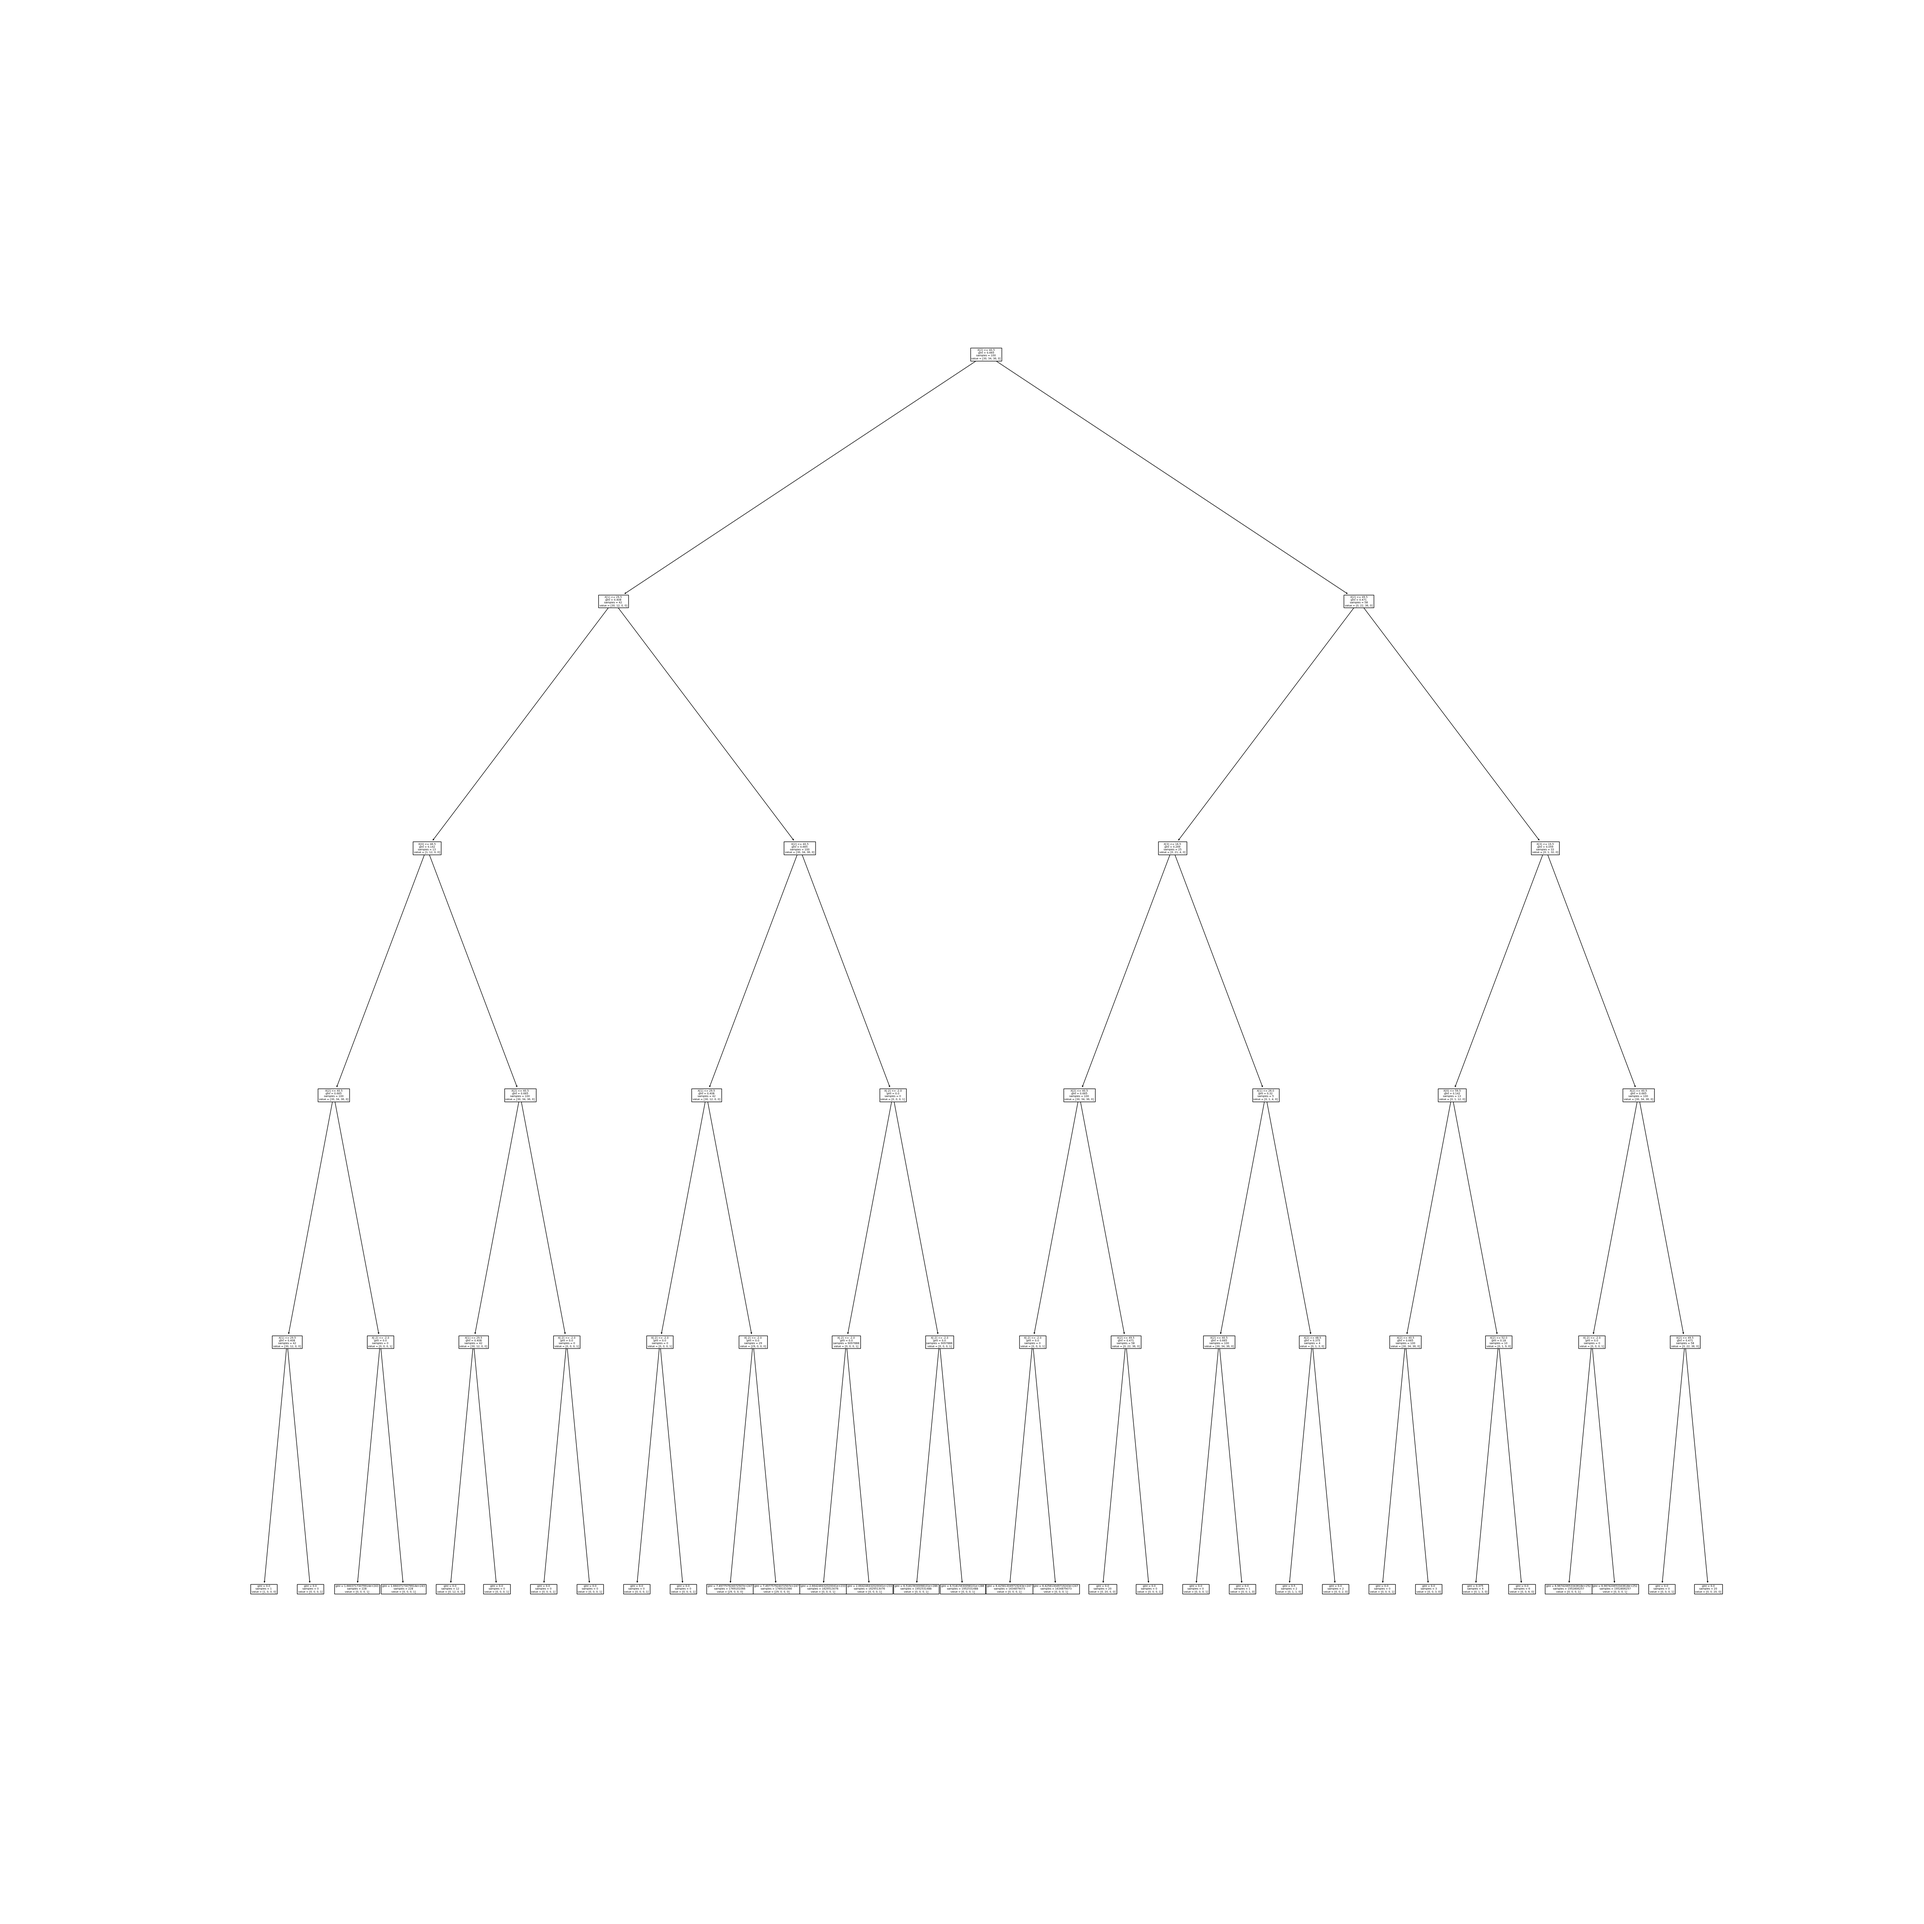
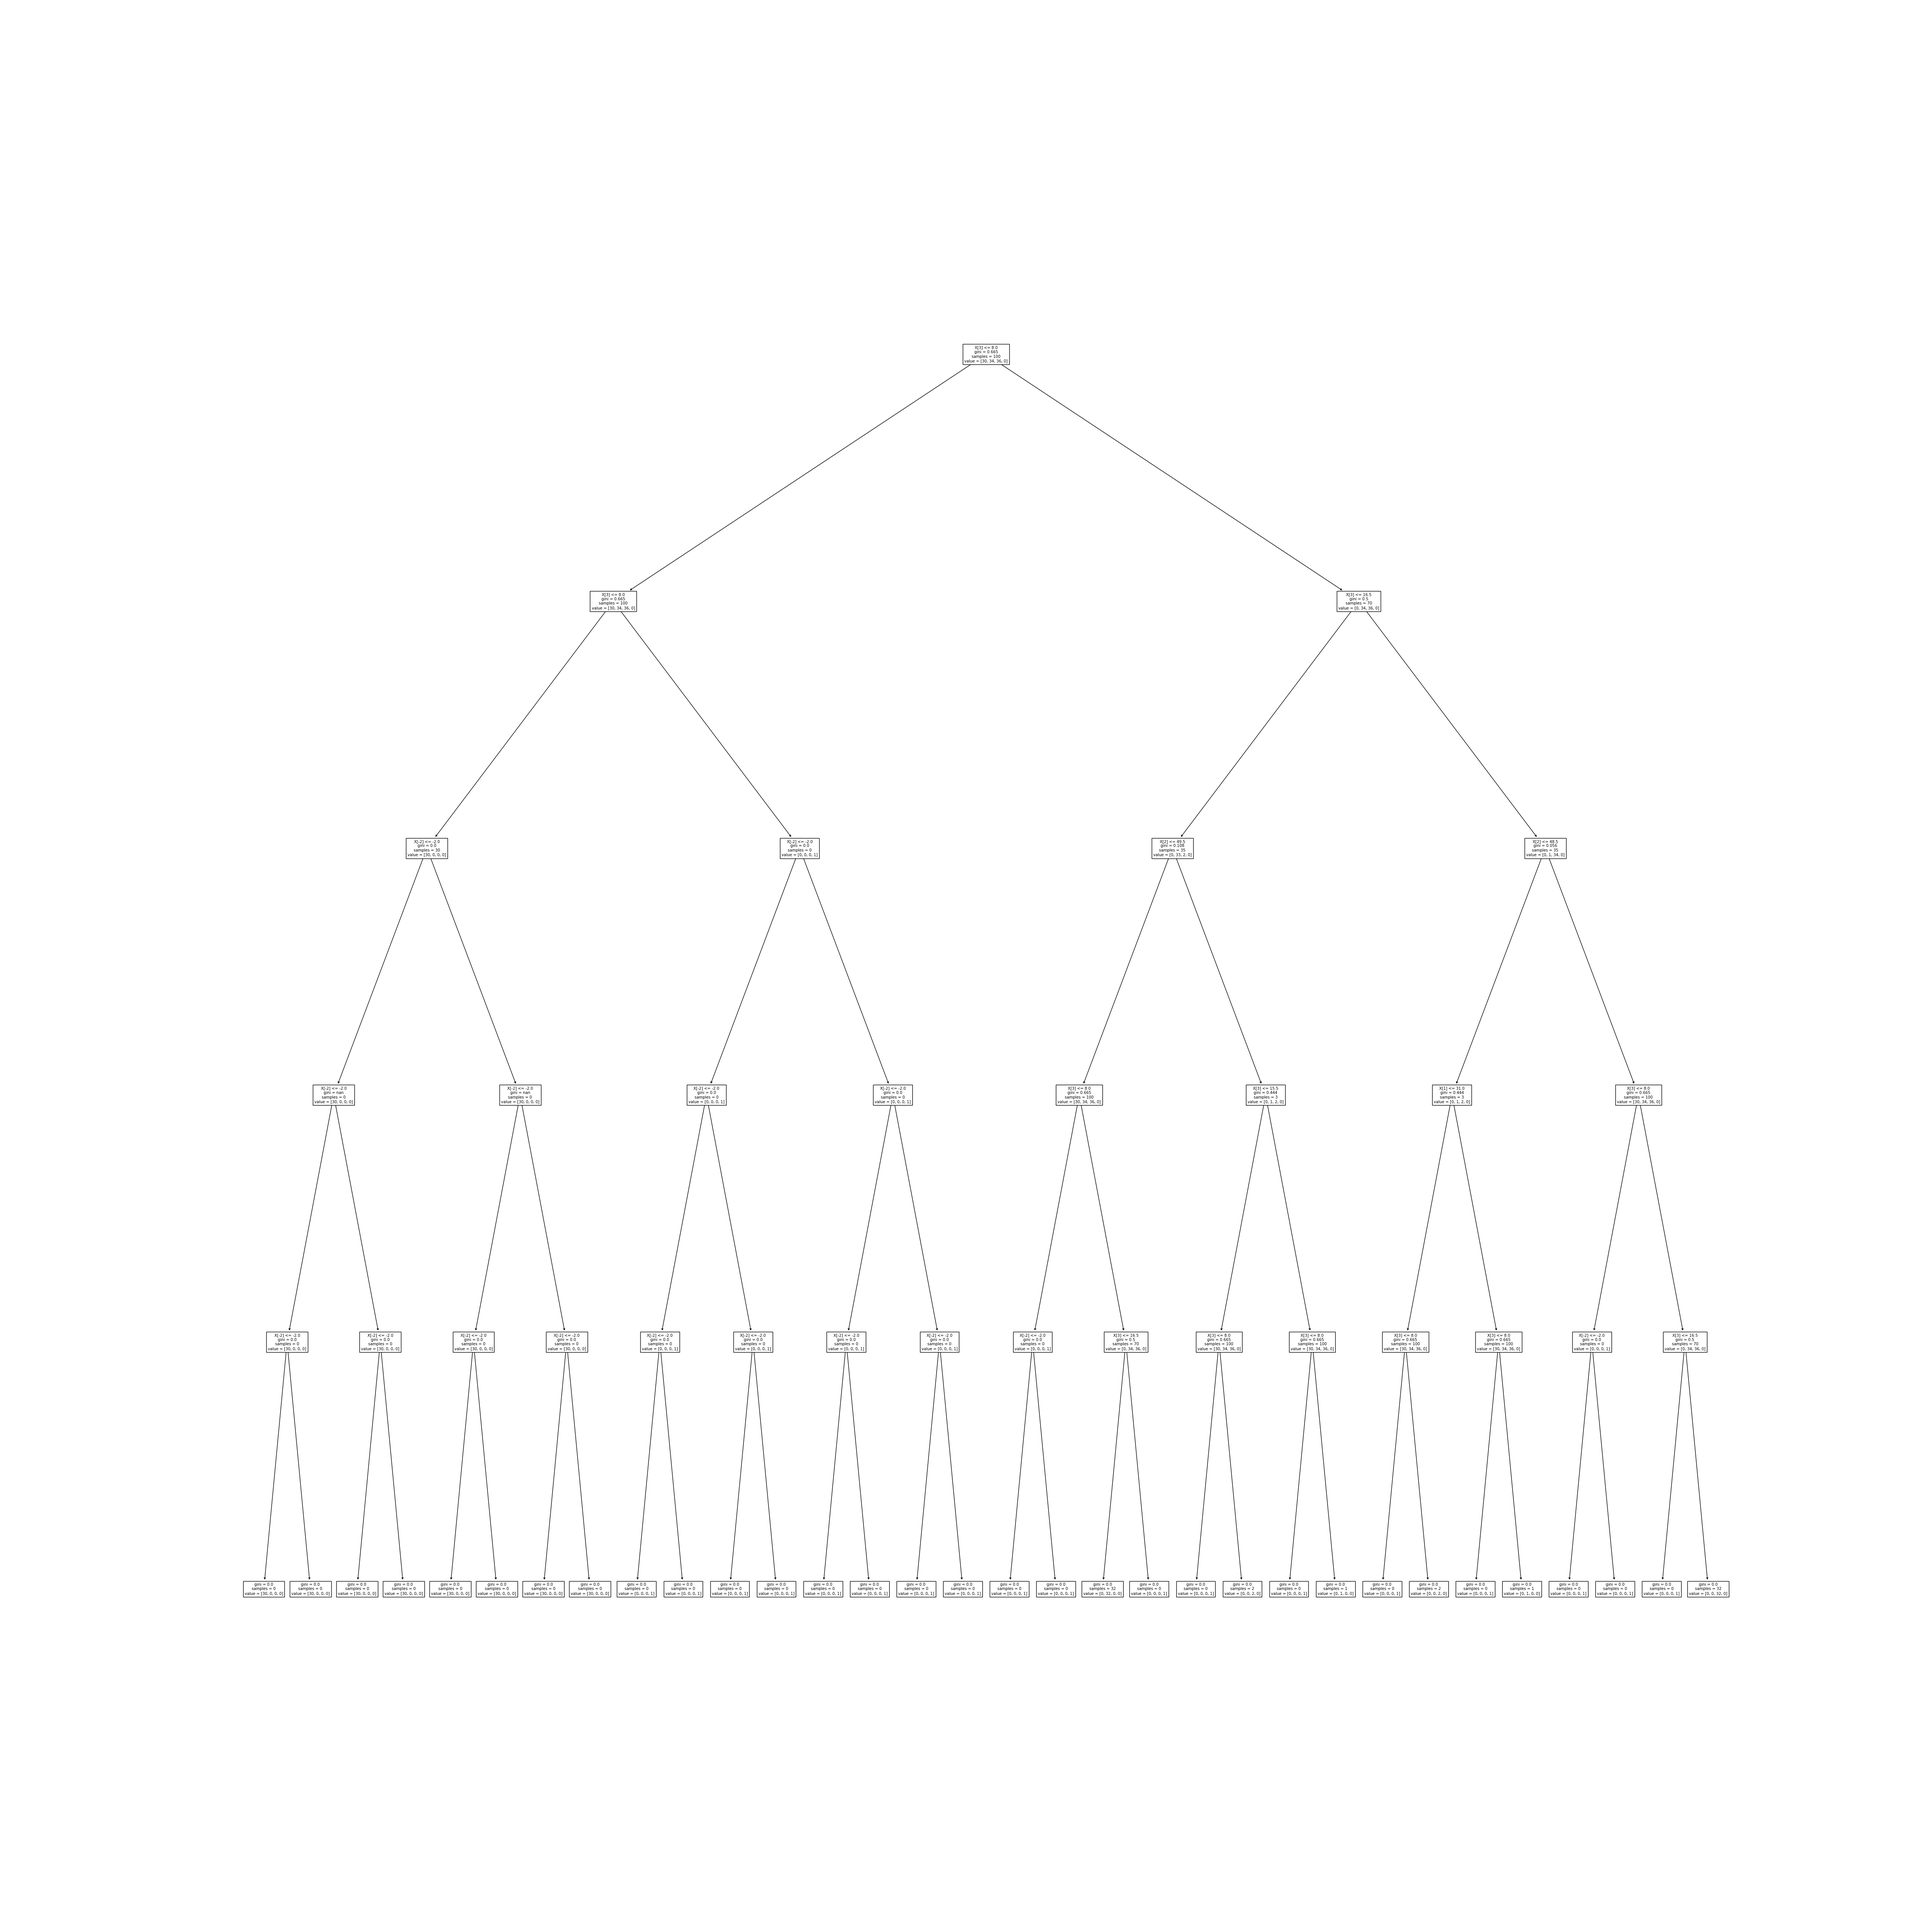
deleting error label results

diff --git a/run_exp.py b/run_exp.py
@@ -62,7 +62,7 @@ def main():
     summarize = args.summarize                  # 1 if accuracy scores should be summarized over all bers
     exact_chidx_error = args.exact_chidx_error  # 1 if chidx shouldn't be aborted immediately
 
-    #print("args.complete_trees = ", args.complete_trees)
+    #print("run_exp.py().complete_trees = ", complete_trees)
     #print("random state: ", random_state)
 
     # read data
@@ -79,14 +79,14 @@ def main():
     else:
         if DT_RF == "DT":
             clf = DecisionTreeClassifier(max_depth=depth, complete_trees=complete_trees, random_state=random_state)
-            model = clf.fit(X_train, y_train, complete_trees)
+            model = clf.fit(X_train, y_train, complete_trees=complete_trees)
             if store_model is not None:
                 joblib.dump(model, exp_path + f"/D{depth}_{dataset}.pkl", compress=9)
 
         if DT_RF == "RF":
             clf = RandomForestClassifier(max_depth=depth, n_estimators=estims, complete_trees=complete_trees,
                                          random_state=random_state)
-            model = clf.fit(X_train, y_train, complete_trees)
+            model = clf.fit(X_train, y_train, complete_trees=complete_trees)
             if store_model is not None:
                 joblib.dump(model, exp_path + f"/D{depth}_T{estims}_{dataset}.pkl", compress=9)
 
@@ -100,7 +100,7 @@ def main():
                     f.write(f"{line}\n")
             for rsdt in range(0, 51, 5):
                 clf = RandomForestClassifier(max_depth=depth, n_estimators=estims, rsdt=rsdt, complete_trees=complete_trees, random_state=random_state)
-                model = clf.fit(X_train, y_train, rsdt, complete_trees)
+                model = clf.fit(X_train, y_train, rsdt, complete_trees=complete_trees)
                 if store_model is not None:
                     joblib.dump(model, exp_path + f"/D{depth}_T{estims}_{dataset}.pkl", compress=9)
                 expdata_dict = {
